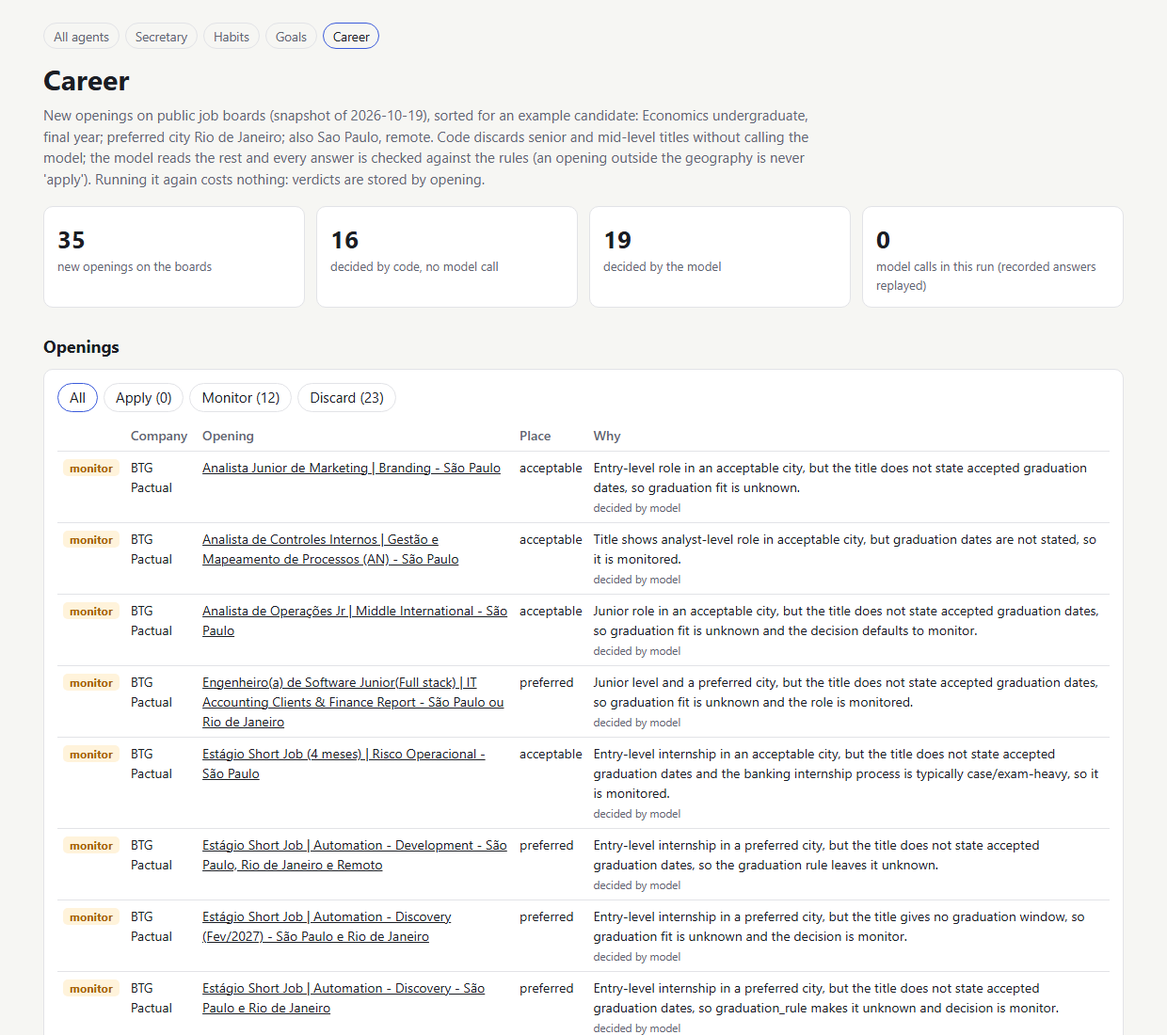
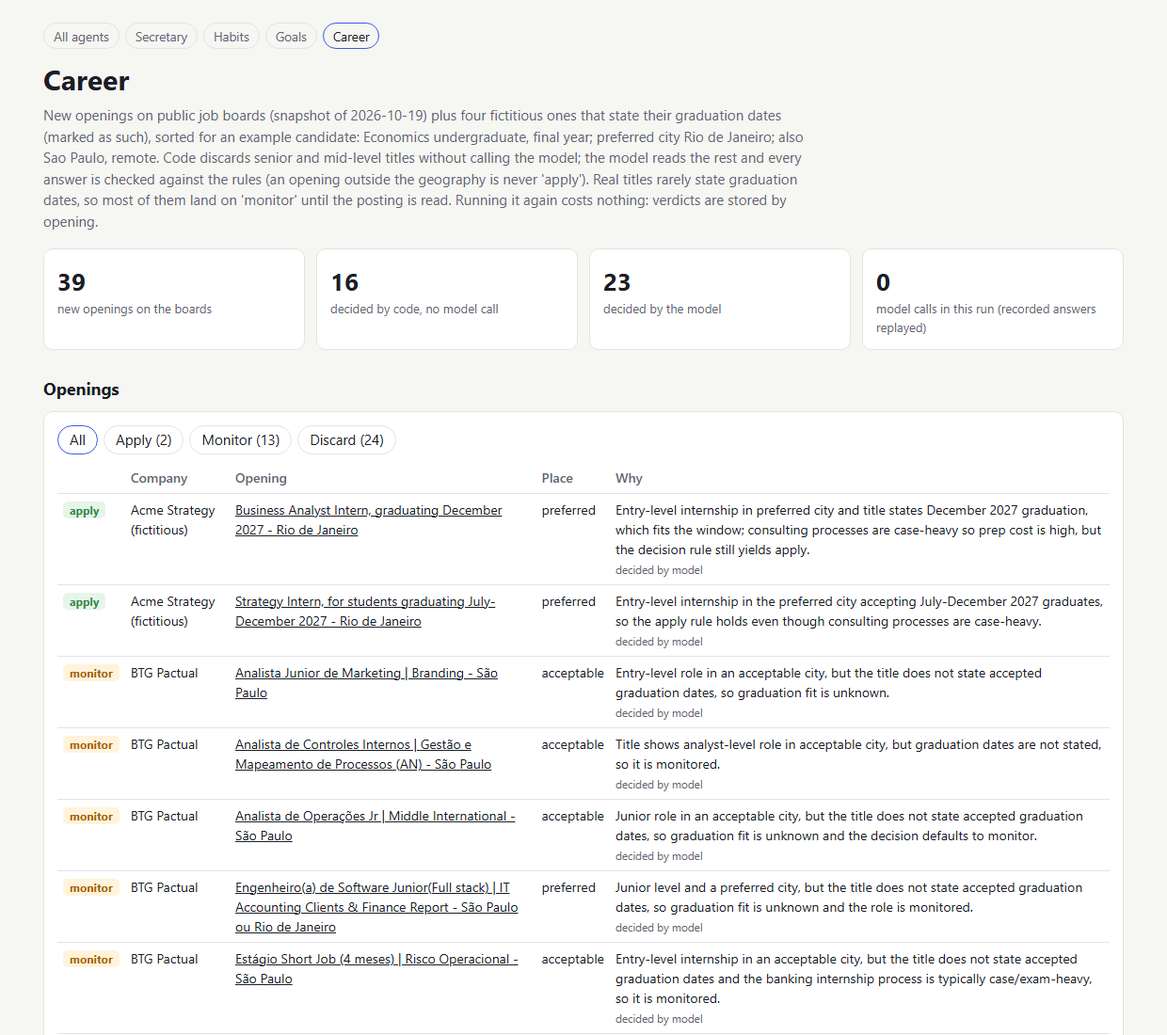
Librarian card on the index; example openings show every outcome

Changed region(s): [[0.0306, 0.3709, 0.95, 1.0], [0.0306, 0.0927, 0.7048, 0.34], [0.7355, 0.2164, 0.95, 0.34]]

diff --git a/output/career.html b/output/career.html
@@ -27,12 +27,12 @@ table.trace td:nth-child(n+3):nth-child(-n+9){text-align:right;font-variant-nume
 padding:3px 12px;margin:0 6px 8px 0;cursor:pointer}.filters button.on{border-color:var(--accent)}
 tr.hide{display:none}td a{color:inherit}
 </style></head><body><main><nav><a href="index.html">All agents</a><a href="secretary.html">Secretary</a><a href="habits.html">Habits</a><a href="goals.html">Goals</a><a href="career.html" class="on">Career</a></nav>
-<h1>Career</h1><p class="lead">New openings on public job boards (snapshot of 2026-10-19), sorted for an example candidate: Economics undergraduate, final year; preferred city Rio de Janeiro; also Sao Paulo, remote. Code discards senior and mid-level titles without calling the model; the model reads the rest and every answer is checked against the rules (an opening outside the geography is never 'apply'). Running it again costs nothing: verdicts are stored by opening.</p><div class="grid g4"><div class="panel tile"><div class="v">35</div><div class="l">new openings on the boards</div></div><div class="panel tile"><div class="v">16</div><div class="l">decided by code, no model call</div></div><div class="panel tile"><div class="v">19</div><div class="l">decided by the model</div></div><div class="panel tile"><div class="v">0</div><div class="l">model calls in this run (recorded answers replayed)</div></div></div><h2>Openings</h2><div class="panel" style="overflow-x:auto"><div class="filters"><button data-f="all" class="on">All</button><button data-f="apply">Apply (0)</button><button data-f="monitor">Monitor (12)</button><button data-f="discard">Discard (23)</button></div><table><tr><th></th><th>Company</th><th>Opening</th><th>Place</th><th>Why</th></tr><tr data-d="monitor"><td><span class="badge warn">monitor</span></td><td>BTG Pactual</td><td><a href="https://boards.greenhouse.io/btgpactual">Analista Junior de Marketing | Branding - São Paulo</a></td><td>acceptable</td><td>Entry-level role in an acceptable city, but the title does not state accepted graduation dates, so graduation fit is unknown.<br><small>decided by model</small></td></tr><tr data-d="monitor"><td><span class="badge warn">monitor</span></td><td>BTG Pactual</td><td><a href="https://boards.greenhouse.io/btgpactual">Analista de Controles Internos | Gestão e Mapeamento de Processos (AN) - São Paulo</a></td><td>acceptable</td><td>Title shows analyst-level role in acceptable city, but graduation dates are not stated, so it is monitored.<br><small>decided by model</small></td></tr><tr data-d="monitor"><td><span class="badge warn">monitor</span></td><td>BTG Pactual</td><td><a href="https://boards.greenhouse.io/btgpactual">Analista de Operações Jr | Middle International - São Paulo</a></td><td>acceptable</td><td>Junior role in an acceptable city, but the title does not state accepted graduation dates, so graduation fit is unknown and the decision defaults to monitor.<br><small>decided by model</small></td></tr><tr data-d="monitor"><td><span class="badge warn">monitor</span></td><td>BTG Pactual</td><td><a href="https://boards.greenhouse.io/btgpactual">Engenheiro(a) de Software Junior(Full stack) | IT Accounting Clients &amp; Finance Report - São Paulo ou Rio de Janeiro</a></td><td>preferred</td><td>Junior level and a preferred city, but the title does not state accepted graduation dates, so graduation fit is unknown and the role is monitored.<br><small>decided by model</small></td></tr><tr data-d="monitor"><td><span class="badge warn">monitor</span></td><td>BTG Pactual</td><td><a href="https://boards.greenhouse.io/btgpactual">Estágio Short Job (4 meses) | Risco Operacional - São Paulo</a></td><td>acceptable</td><td>Entry-level internship in an acceptable city, but the title does not state accepted graduation dates and the banking internship process is typically case/exam-heavy, so it is monitored.<br><small>decided by model</small></td></tr><tr data-d="monitor"><td><span class="badge warn">monitor</span></td><td>BTG Pactual</td><td><a href="https://boards.greenhouse.io/btgpactual">Estágio Short Job | Automation - Development - São Paulo, Rio de Janeiro e Remoto</a></td><td>preferred</td><td>Entry-level internship in a preferred city, but the title does not state accepted graduation dates, so the graduation rule leaves it unknown.<br><small>decided by model</small></td></tr><tr data-d="monitor"><td><span class="badge warn">monitor</span></td><td>BTG Pactual</td><td><a href="https://boards.greenhouse.io/btgpactual">Estágio Short Job | Automation - Discovery (Fev/2027) - São Paulo e Rio de Janeiro</a></td><td>preferred</td><td>Entry-level internship in a preferred city, but the title gives no graduation window, so graduation fit is unknown and the decision is monitor.<br><small>decided by model</small></td></tr><tr data-d="monitor"><td><span class="badge warn">monitor</span></td><td>BTG Pactual</td><td><a href="https://boards.greenhouse.io/btgpactual">Estágio Short Job | Automation - Discovery - São Paulo e Rio de Janeiro</a></td><td>preferred</td><td>Entry-level internship in a preferred city, but the title does not state accepted graduation dates, so graduation_rule makes it unknown and decision is monitor.<br><small>decided by model</small></td></tr><tr data-d="monitor"><td><span class="badge warn">monitor</span></td><td>BTG Pactual</td><td><a href="https://boards.greenhouse.io/btgpactual">Estágio em Capacitação e Treinamento - São Paulo</a></td><td>acceptable</td><td>Internship level and acceptable city, but the title does not state accepted graduation dates and banking internship processes are typically case or exam-heavy, so monitor.<br><small>decided by model</small></td></tr><tr data-d="monitor"><td><span class="badge warn">monitor</span></td><td>BTG Pactual</td><td><a href="https://boards.greenhouse.io/btgpactual">Estágio em Equity Research - São Paulo</a></td><td>acceptable</td><td>Internship level and São Paulo are acceptable, but the title does not state graduation dates and finance internship processes are typically case/exam-heavy, so it is monitored.<br><small>decided by model</small></td></tr><tr data-d="monitor"><td><span class="badge warn">monitor</span></td><td>BTG Pactual</td><td><a href="https://boards.greenhouse.io/btgpactual">Internalizações | IT Products - São Paulo, São Paulo, Brazil</a></td><td>acceptable</td><td>Title does not state accepted graduation dates, so graduation is unknown; the role is not clearly entry level, so it is monitored rather than applied to.<br><small>decided by model</small></td></tr><tr data-d="monitor"><td><span class="badge warn">monitor</span></td><td>Stone</td><td><a href="https://boards.greenhouse.io/stone">Analista Júnior  de Políticas de Crédito / Crédit Business Analyst - Sao Paulo, Sao Paulo, Brasil</a></td><td>acceptable</td><td>Junior level and acceptable city, but the title does not state accepted graduation windows, so graduation fit is unknown.<br><small>decided by model</small></td></tr><tr data-d="discard"><td><span class="badge bad">discard</span></td><td>BTG Pactual</td><td><a href="https://boards.greenhouse.io/btgpactual">Analista de Auditoria Interna - São Paulo</a></td><td>acceptable</td><td>Title is &#x27;Analista&#x27; without internship or junior/entry-level marker, so level rule fails and the role is discarded.<br><small>decided by model</small></td></tr><tr data-d="discard"><td><span class="badge bad">discard</span></td><td>BTG Pactual</td><td><a href="https://boards.greenhouse.io/btgpactual">Analista de Controles Internos | Tecnologia (AN) - São Paulo</a></td><td>acceptable</td><td>The title &#x27;Analista&#x27; is not explicitly internship, trainee or junior level, so the level rule is not clearly met and the opening is discarded as a non-entry role.<br><small>decided by model</small></td></tr><tr data-d="discard"><td><span class="badge bad">discard</span></td><td>BTG Pactual</td><td><a href="https://boards.greenhouse.io/btgpactual">Analista de Risco Operacional e Controles Internos | Offshore Europa - São Paulo</a></td><td>acceptable</td><td>Title is &#x27;Analista&#x27; without an entry-level or internship marker and does not state an accepted graduation window, so level is not entry and graduation is unknown; per decision rule, a mid-level or unclear role is discarded.<br><small>decided by model</small></td></tr><tr data-d="discard"><td><span class="badge bad">discard</span></td><td>BTG Pactual</td><td><a href="https://boards.greenhouse.io/btgpactual">Associate Director - Treinamento em Hard Skills | Mercado Financeiro - São Paulo</a></td><td>unknown</td><td>level rule: &#x27;Director&#x27; in the title (decided by code, no call)<br><small>decided by code</small></td></tr><tr data-d="discard"><td><span class="badge bad">discard</span></td><td>BTG Pactual</td><td><a href="https://boards.greenhouse.io/btgpactual">Desenvolvedor(a) Backend Junior/Pleno | Renda Fixa - São Paulo, Brazil</a></td><td>unknown</td><td>level rule: &#x27;Pleno&#x27; in the title (decided by code, no call)<br><small>decided by code</small></td></tr><tr data-d="discard"><td><span class="badge bad">discard</span></td><td>BTG Pactual</td><td><a href="https://boards.greenhouse.io/btgpactual">Engenheiro de Software Junior ou Pleno (Java) | Investment Products - São Paulo, São Paulo, Brazil</a></td><td>unknown</td><td>level rule: &#x27;Pleno&#x27; in the title (decided by code, no call)<br><small>decided by code</small></td></tr><tr data-d="discard"><td><span class="badge bad">discard</span></td><td>BTG Pactual</td><td><a href="https://boards.greenhouse.io/btgpactual">Engenheiro(a) de Software Backend (Python) Sênior – Plataforma Risco Operacional e Controles Internos - São Paulo</a></td><td>unknown</td><td>level rule: &#x27;Sênior&#x27; in the title (decided by code, no call)<br><small>decided by code</small></td></tr><tr data-d="discard"><td><span class="badge bad">discard</span></td><td>BTG Pactual</td><td><a href="https://boards.greenhouse.io/btgpactual">Programa BTG Talentos | Estágio de Férias UNICAMP 2027.1 - São Paulo</a></td><td>acceptable</td><td>Title specifies a 2027.1 vacation internship for UNICAMP students, which does not accept the 2027-07 or 2027-12 graduation windows, so graduation does not fit.<br><small>decided by model</small></td></tr><tr data-d="discard"><td><span class="badge bad">discard</span></td><td>EBANX</td><td><a href="https://boards.greenhouse.io/ebanx">Chargeback and Fraud Prevention Product Analyst - Curitiba or São Paulo | Hybrid</a></td><td>outside</td><td>Curitiba is outside the preferred and acceptable cities, and the title does not state an entry-level role, so the rule discards it.<br><small>decided by model</small></td></tr><tr data-d="discard"><td><span class="badge bad">discard</span></td><td>EBANX</td><td><a href="https://boards.greenhouse.io/ebanx">Payments &amp; Partnership Operations Senior Analyst - Curitiba or São Paulo | On-site</a></td><td>unknown</td><td>level rule: &#x27;Senior&#x27; in the title (decided by code, no call)<br><small>decided by code</small></td></tr><tr data-d="discard"><td><span class="badge bad">discard</span></td><td>EBANX</td><td><a href="https://boards.greenhouse.io/ebanx">Project Management Senior Analyst - Curitiba | On-site</a></td><td>unknown</td><td>level rule: &#x27;Senior&#x27; in the title (decided by code, no call)<br><small>decided by code</small></td></tr><tr data-d="discard"><td><span class="badge bad">discard</span></td><td>EBANX</td><td><a href="https://boards.greenhouse.io/ebanx">Senior Analytics &amp; Intelligence Analyst - Curitiba</a></td><td>unknown</td><td>level rule: &#x27;Senior&#x27; in the title (decided by code, no call)<br><small>decided by code</small></td></tr><tr data-d="discard"><td><span class="badge bad">discard</span></td><td>EBANX</td><td><a href="https://boards.greenhouse.io/ebanx">Senior Chargeback &amp; Fraud Analyst - Curitiba or São Paulo</a></td><td>unknown</td><td>level rule: &#x27;Senior&#x27; in the title (decided by code, no call)<br><small>decided by code</small></td></tr><tr data-d="discard"><td><span class="badge bad">discard</span></td><td>EBANX</td><td><a href="https://boards.greenhouse.io/ebanx">Senior Commercial Legal Analyst - São Paulo</a></td><td>unknown</td><td>level rule: &#x27;Senior&#x27; in the title (decided by code, no call)<br><small>decided by code</small></td></tr><tr data-d="discard"><td><span class="badge bad">discard</span></td><td>EBANX</td><td><a href="https://boards.greenhouse.io/ebanx">Senior Employer Branding &amp; Internal Communications Analyst - Curitiba</a></td><td>unknown</td><td>level rule: &#x27;Senior&#x27; in the title (decided by code, no call)<br><small>decided by code</small></td></tr><tr data-d="discard"><td><span class="badge bad">discard</span></td><td>EBANX</td><td><a href="https://boards.greenhouse.io/ebanx">Senior Product Analyst | Financial Products - Curitiba or São Paulo | Hybrid</a></td><td>unknown</td><td>level rule: &#x27;Senior&#x27; in the title (decided by code, no call)<br><small>decided by code</small></td></tr><tr data-d="discard"><td><span class="badge bad">discard</span></td><td>EBANX</td><td><a href="https://boards.greenhouse.io/ebanx">Treasury Analyst | India - Mumbai</a></td><td>outside</td><td>Location Mumbai is outside the preferred and acceptable geographies, so the decision rule discards it.<br><small>decided by model</small></td></tr><tr data-d="discard"><td><span class="badge bad">discard</span></td><td>Stone</td><td><a href="https://boards.greenhouse.io/stone">Analista Pleno  de Políticas de Crédito / Crédit Business Analyst - Sao Paulo, Sao Paulo, Brasil</a></td><td>unknown</td><td>level rule: &#x27;Pleno&#x27; in the title (decided by code, no call)<br><small>decided by code</small></td></tr><tr data-d="discard"><td><span class="badge bad">discard</span></td><td>Stone</td><td><a href="https://boards.greenhouse.io/stone">Analista de Auditoria Interna Sênior | Produtos Bancários e Contabilidade (Híbrido/SP) - Sao Paulo, Sao Paulo, Brasil</a></td><td>unknown</td><td>level rule: &#x27;Sênior&#x27; in the title (decided by code, no call)<br><small>decided by code</small></td></tr><tr data-d="discard"><td><span class="badge bad">discard</span></td><td>Stone</td><td><a href="https://boards.greenhouse.io/stone">Business Analyst PLENO - Remoto</a></td><td>unknown</td><td>level rule: &#x27;PLENO&#x27; in the title (decided by code, no call)<br><small>decided by code</small></td></tr><tr data-d="discard"><td><span class="badge bad">discard</span></td><td>Stone</td><td><a href="https://boards.greenhouse.io/stone">Especialista de TI | Controles Internos e Riscos Tecnológicos | (Híbrido/SP) - Sao Paulo, Sao Paulo, Brasil</a></td><td>unknown</td><td>level rule: &#x27;Especialista&#x27; in the title (decided by code, no call)<br><small>decided by code</small></td></tr><tr data-d="discard"><td><span class="badge bad">discard</span></td><td>Stone</td><td><a href="https://boards.greenhouse.io/stone">Senior Business Analyst - Remoto</a></td><td>unknown</td><td>level rule: &#x27;Senior&#x27; in the title (decided by code, no call)<br><small>decided by code</small></td></tr><tr data-d="discard"><td><span class="badge bad">discard</span></td><td>Stone</td><td><a href="https://boards.greenhouse.io/stone">[Exclusiva PcD] Consultor(a) Comercial Interno | Híbrido - Rio de Janeiro/RJ - Híbrido, Rio de Janeiro</a></td><td>preferred</td><td>Level rule: &#x27;Consultor(a) Comercial Interno&#x27; is not an internship, trainee or junior/entry-level role, so it is discarded regardless of the preferred location.<br><small>decided by model</small></td></tr></table></div><script>
+<h1>Career</h1><p class="lead">New openings on public job boards (snapshot of 2026-10-19) plus four fictitious ones that state their graduation dates (marked as such), sorted for an example candidate: Economics undergraduate, final year; preferred city Rio de Janeiro; also Sao Paulo, remote. Code discards senior and mid-level titles without calling the model; the model reads the rest and every answer is checked against the rules (an opening outside the geography is never 'apply'). Real titles rarely state graduation dates, so most of them land on 'monitor' until the posting is read. Running it again costs nothing: verdicts are stored by opening.</p><div class="grid g4"><div class="panel tile"><div class="v">39</div><div class="l">new openings on the boards</div></div><div class="panel tile"><div class="v">16</div><div class="l">decided by code, no model call</div></div><div class="panel tile"><div class="v">23</div><div class="l">decided by the model</div></div><div class="panel tile"><div class="v">0</div><div class="l">model calls in this run (recorded answers replayed)</div></div></div><h2>Openings</h2><div class="panel" style="overflow-x:auto"><div class="filters"><button data-f="all" class="on">All</button><button data-f="apply">Apply (2)</button><button data-f="monitor">Monitor (13)</button><button data-f="discard">Discard (24)</button></div><table><tr><th></th><th>Company</th><th>Opening</th><th>Place</th><th>Why</th></tr><tr data-d="apply"><td><span class="badge ok">apply</span></td><td>Acme Strategy (fictitious)</td><td><a href="https://careers.acme-strategy.example/jobs">Business Analyst Intern, graduating December 2027 - Rio de Janeiro</a></td><td>preferred</td><td>Entry-level internship in preferred city and title states December 2027 graduation, which fits the window; consulting processes are case-heavy so prep cost is high, but the decision rule still yields apply.<br><small>decided by model</small></td></tr><tr data-d="apply"><td><span class="badge ok">apply</span></td><td>Acme Strategy (fictitious)</td><td><a href="https://careers.acme-strategy.example/jobs">Strategy Intern, for students graduating July-December 2027 - Rio de Janeiro</a></td><td>preferred</td><td>Entry-level internship in the preferred city accepting July-December 2027 graduates, so the apply rule holds even though consulting processes are case-heavy.<br><small>decided by model</small></td></tr><tr data-d="monitor"><td><span class="badge warn">monitor</span></td><td>BTG Pactual</td><td><a href="https://boards.greenhouse.io/btgpactual">Analista Junior de Marketing | Branding - São Paulo</a></td><td>acceptable</td><td>Entry-level role in an acceptable city, but the title does not state accepted graduation dates, so graduation fit is unknown.<br><small>decided by model</small></td></tr><tr data-d="monitor"><td><span class="badge warn">monitor</span></td><td>BTG Pactual</td><td><a href="https://boards.greenhouse.io/btgpactual">Analista de Controles Internos | Gestão e Mapeamento de Processos (AN) - São Paulo</a></td><td>acceptable</td><td>Title shows analyst-level role in acceptable city, but graduation dates are not stated, so it is monitored.<br><small>decided by model</small></td></tr><tr data-d="monitor"><td><span class="badge warn">monitor</span></td><td>BTG Pactual</td><td><a href="https://boards.greenhouse.io/btgpactual">Analista de Operações Jr | Middle International - São Paulo</a></td><td>acceptable</td><td>Junior role in an acceptable city, but the title does not state accepted graduation dates, so graduation fit is unknown and the decision defaults to monitor.<br><small>decided by model</small></td></tr><tr data-d="monitor"><td><span class="badge warn">monitor</span></td><td>BTG Pactual</td><td><a href="https://boards.greenhouse.io/btgpactual">Engenheiro(a) de Software Junior(Full stack) | IT Accounting Clients &amp; Finance Report - São Paulo ou Rio de Janeiro</a></td><td>preferred</td><td>Junior level and a preferred city, but the title does not state accepted graduation dates, so graduation fit is unknown and the role is monitored.<br><small>decided by model</small></td></tr><tr data-d="monitor"><td><span class="badge warn">monitor</span></td><td>BTG Pactual</td><td><a href="https://boards.greenhouse.io/btgpactual">Estágio Short Job (4 meses) | Risco Operacional - São Paulo</a></td><td>acceptable</td><td>Entry-level internship in an acceptable city, but the title does not state accepted graduation dates and the banking internship process is typically case/exam-heavy, so it is monitored.<br><small>decided by model</small></td></tr><tr data-d="monitor"><td><span class="badge warn">monitor</span></td><td>BTG Pactual</td><td><a href="https://boards.greenhouse.io/btgpactual">Estágio Short Job | Automation - Development - São Paulo, Rio de Janeiro e Remoto</a></td><td>preferred</td><td>Entry-level internship in a preferred city, but the title does not state accepted graduation dates, so the graduation rule leaves it unknown.<br><small>decided by model</small></td></tr><tr data-d="monitor"><td><span class="badge warn">monitor</span></td><td>BTG Pactual</td><td><a href="https://boards.greenhouse.io/btgpactual">Estágio Short Job | Automation - Discovery (Fev/2027) - São Paulo e Rio de Janeiro</a></td><td>preferred</td><td>Entry-level internship in a preferred city, but the title gives no graduation window, so graduation fit is unknown and the decision is monitor.<br><small>decided by model</small></td></tr><tr data-d="monitor"><td><span class="badge warn">monitor</span></td><td>BTG Pactual</td><td><a href="https://boards.greenhouse.io/btgpactual">Estágio Short Job | Automation - Discovery - São Paulo e Rio de Janeiro</a></td><td>preferred</td><td>Entry-level internship in a preferred city, but the title does not state accepted graduation dates, so graduation_rule makes it unknown and decision is monitor.<br><small>decided by model</small></td></tr><tr data-d="monitor"><td><span class="badge warn">monitor</span></td><td>BTG Pactual</td><td><a href="https://boards.greenhouse.io/btgpactual">Estágio em Capacitação e Treinamento - São Paulo</a></td><td>acceptable</td><td>Internship level and acceptable city, but the title does not state accepted graduation dates and banking internship processes are typically case or exam-heavy, so monitor.<br><small>decided by model</small></td></tr><tr data-d="monitor"><td><span class="badge warn">monitor</span></td><td>BTG Pactual</td><td><a href="https://boards.greenhouse.io/btgpactual">Estágio em Equity Research - São Paulo</a></td><td>acceptable</td><td>Internship level and São Paulo are acceptable, but the title does not state graduation dates and finance internship processes are typically case/exam-heavy, so it is monitored.<br><small>decided by model</small></td></tr><tr data-d="monitor"><td><span class="badge warn">monitor</span></td><td>BTG Pactual</td><td><a href="https://boards.greenhouse.io/btgpactual">Internalizações | IT Products - São Paulo, São Paulo, Brazil</a></td><td>acceptable</td><td>Title does not state accepted graduation dates, so graduation is unknown; the role is not clearly entry level, so it is monitored rather than applied to.<br><small>decided by model</small></td></tr><tr data-d="monitor"><td><span class="badge warn">monitor</span></td><td>Northwind Bank (fictitious)</td><td><a href="https://jobs.northwind.example/early-careers">Data Analytics Intern, graduating in 2027 - Remote</a></td><td>acceptable</td><td>Entry-level internship and remote is acceptable, but the title only says graduating in 2027 without naming a window, so graduation fit is unknown and the decision defaults to monitor.<br><small>decided by model</small></td></tr><tr data-d="monitor"><td><span class="badge warn">monitor</span></td><td>Stone</td><td><a href="https://boards.greenhouse.io/stone">Analista Júnior  de Políticas de Crédito / Crédit Business Analyst - Sao Paulo, Sao Paulo, Brasil</a></td><td>acceptable</td><td>Junior level and acceptable city, but the title does not state accepted graduation windows, so graduation fit is unknown.<br><small>decided by model</small></td></tr><tr data-d="discard"><td><span class="badge bad">discard</span></td><td>BTG Pactual</td><td><a href="https://boards.greenhouse.io/btgpactual">Analista de Auditoria Interna - São Paulo</a></td><td>acceptable</td><td>Title is &#x27;Analista&#x27; without internship or junior/entry-level marker, so level rule fails and the role is discarded.<br><small>decided by model</small></td></tr><tr data-d="discard"><td><span class="badge bad">discard</span></td><td>BTG Pactual</td><td><a href="https://boards.greenhouse.io/btgpactual">Analista de Controles Internos | Tecnologia (AN) - São Paulo</a></td><td>acceptable</td><td>The title &#x27;Analista&#x27; is not explicitly internship, trainee or junior level, so the level rule is not clearly met and the opening is discarded as a non-entry role.<br><small>decided by model</small></td></tr><tr data-d="discard"><td><span class="badge bad">discard</span></td><td>BTG Pactual</td><td><a href="https://boards.greenhouse.io/btgpactual">Analista de Risco Operacional e Controles Internos | Offshore Europa - São Paulo</a></td><td>acceptable</td><td>Title is &#x27;Analista&#x27; without an entry-level or internship marker and does not state an accepted graduation window, so level is not entry and graduation is unknown; per decision rule, a mid-level or unclear role is discarded.<br><small>decided by model</small></td></tr><tr data-d="discard"><td><span class="badge bad">discard</span></td><td>BTG Pactual</td><td><a href="https://boards.greenhouse.io/btgpactual">Associate Director - Treinamento em Hard Skills | Mercado Financeiro - São Paulo</a></td><td>unknown</td><td>level rule: &#x27;Director&#x27; in the title (decided by code, no call)<br><small>decided by code</small></td></tr><tr data-d="discard"><td><span class="badge bad">discard</span></td><td>BTG Pactual</td><td><a href="https://boards.greenhouse.io/btgpactual">Desenvolvedor(a) Backend Junior/Pleno | Renda Fixa - São Paulo, Brazil</a></td><td>unknown</td><td>level rule: &#x27;Pleno&#x27; in the title (decided by code, no call)<br><small>decided by code</small></td></tr><tr data-d="discard"><td><span class="badge bad">discard</span></td><td>BTG Pactual</td><td><a href="https://boards.greenhouse.io/btgpactual">Engenheiro de Software Junior ou Pleno (Java) | Investment Products - São Paulo, São Paulo, Brazil</a></td><td>unknown</td><td>level rule: &#x27;Pleno&#x27; in the title (decided by code, no call)<br><small>decided by code</small></td></tr><tr data-d="discard"><td><span class="badge bad">discard</span></td><td>BTG Pactual</td><td><a href="https://boards.greenhouse.io/btgpactual">Engenheiro(a) de Software Backend (Python) Sênior – Plataforma Risco Operacional e Controles Internos - São Paulo</a></td><td>unknown</td><td>level rule: &#x27;Sênior&#x27; in the title (decided by code, no call)<br><small>decided by code</small></td></tr><tr data-d="discard"><td><span class="badge bad">discard</span></td><td>BTG Pactual</td><td><a href="https://boards.greenhouse.io/btgpactual">Programa BTG Talentos | Estágio de Férias UNICAMP 2027.1 - São Paulo</a></td><td>acceptable</td><td>Title specifies a 2027.1 vacation internship for UNICAMP students, which does not accept the 2027-07 or 2027-12 graduation windows, so graduation does not fit.<br><small>decided by model</small></td></tr><tr data-d="discard"><td><span class="badge bad">discard</span></td><td>EBANX</td><td><a href="https://boards.greenhouse.io/ebanx">Chargeback and Fraud Prevention Product Analyst - Curitiba or São Paulo | Hybrid</a></td><td>outside</td><td>Curitiba is outside the preferred and acceptable cities, and the title does not state an entry-level role, so the rule discards it.<br><small>decided by model</small></td></tr><tr data-d="discard"><td><span class="badge bad">discard</span></td><td>EBANX</td><td><a href="https://boards.greenhouse.io/ebanx">Payments &amp; Partnership Operations Senior Analyst - Curitiba or São Paulo | On-site</a></td><td>unknown</td><td>level rule: &#x27;Senior&#x27; in the title (decided by code, no call)<br><small>decided by code</small></td></tr><tr data-d="discard"><td><span class="badge bad">discard</span></td><td>EBANX</td><td><a href="https://boards.greenhouse.io/ebanx">Project Management Senior Analyst - Curitiba | On-site</a></td><td>unknown</td><td>level rule: &#x27;Senior&#x27; in the title (decided by code, no call)<br><small>decided by code</small></td></tr><tr data-d="discard"><td><span class="badge bad">discard</span></td><td>EBANX</td><td><a href="https://boards.greenhouse.io/ebanx">Senior Analytics &amp; Intelligence Analyst - Curitiba</a></td><td>unknown</td><td>level rule: &#x27;Senior&#x27; in the title (decided by code, no call)<br><small>decided by code</small></td></tr><tr data-d="discard"><td><span class="badge bad">discard</span></td><td>EBANX</td><td><a href="https://boards.greenhouse.io/ebanx">Senior Chargeback &amp; Fraud Analyst - Curitiba or São Paulo</a></td><td>unknown</td><td>level rule: &#x27;Senior&#x27; in the title (decided by code, no call)<br><small>decided by code</small></td></tr><tr data-d="discard"><td><span class="badge bad">discard</span></td><td>EBANX</td><td><a href="https://boards.greenhouse.io/ebanx">Senior Commercial Legal Analyst - São Paulo</a></td><td>unknown</td><td>level rule: &#x27;Senior&#x27; in the title (decided by code, no call)<br><small>decided by code</small></td></tr><tr data-d="discard"><td><span class="badge bad">discard</span></td><td>EBANX</td><td><a href="https://boards.greenhouse.io/ebanx">Senior Employer Branding &amp; Internal Communications Analyst - Curitiba</a></td><td>unknown</td><td>level rule: &#x27;Senior&#x27; in the title (decided by code, no call)<br><small>decided by code</small></td></tr><tr data-d="discard"><td><span class="badge bad">discard</span></td><td>EBANX</td><td><a href="https://boards.greenhouse.io/ebanx">Senior Product Analyst | Financial Products - Curitiba or São Paulo | Hybrid</a></td><td>unknown</td><td>level rule: &#x27;Senior&#x27; in the title (decided by code, no call)<br><small>decided by code</small></td></tr><tr data-d="discard"><td><span class="badge bad">discard</span></td><td>EBANX</td><td><a href="https://boards.greenhouse.io/ebanx">Treasury Analyst | India - Mumbai</a></td><td>outside</td><td>Location Mumbai is outside the preferred and acceptable geographies, so the decision rule discards it.<br><small>decided by model</small></td></tr><tr data-d="discard"><td><span class="badge bad">discard</span></td><td>Northwind Bank (fictitious)</td><td><a href="https://jobs.northwind.example/early-careers">Trainee Program 2027, for graduates of 2025 or 2026 - Sao Paulo</a></td><td>acceptable</td><td>Graduation rule: the title says graduates of 2025 or 2026, which does not accept the 2027-07 or 2027-12 windows, so it is discarded.<br><small>decided by model</small></td></tr><tr data-d="discard"><td><span class="badge bad">discard</span></td><td>Stone</td><td><a href="https://boards.greenhouse.io/stone">Analista Pleno  de Políticas de Crédito / Crédit Business Analyst - Sao Paulo, Sao Paulo, Brasil</a></td><td>unknown</td><td>level rule: &#x27;Pleno&#x27; in the title (decided by code, no call)<br><small>decided by code</small></td></tr><tr data-d="discard"><td><span class="badge bad">discard</span></td><td>Stone</td><td><a href="https://boards.greenhouse.io/stone">Analista de Auditoria Interna Sênior | Produtos Bancários e Contabilidade (Híbrido/SP) - Sao Paulo, Sao Paulo, Brasil</a></td><td>unknown</td><td>level rule: &#x27;Sênior&#x27; in the title (decided by code, no call)<br><small>decided by code</small></td></tr><tr data-d="discard"><td><span class="badge bad">discard</span></td><td>Stone</td><td><a href="https://boards.greenhouse.io/stone">Business Analyst PLENO - Remoto</a></td><td>unknown</td><td>level rule: &#x27;PLENO&#x27; in the title (decided by code, no call)<br><small>decided by code</small></td></tr><tr data-d="discard"><td><span class="badge bad">discard</span></td><td>Stone</td><td><a href="https://boards.greenhouse.io/stone">Especialista de TI | Controles Internos e Riscos Tecnológicos | (Híbrido/SP) - Sao Paulo, Sao Paulo, Brasil</a></td><td>unknown</td><td>level rule: &#x27;Especialista&#x27; in the title (decided by code, no call)<br><small>decided by code</small></td></tr><tr data-d="discard"><td><span class="badge bad">discard</span></td><td>Stone</td><td><a href="https://boards.greenhouse.io/stone">Senior Business Analyst - Remoto</a></td><td>unknown</td><td>level rule: &#x27;Senior&#x27; in the title (decided by code, no call)<br><small>decided by code</small></td></tr><tr data-d="discard"><td><span class="badge bad">discard</span></td><td>Stone</td><td><a href="https://boards.greenhouse.io/stone">[Exclusiva PcD] Consultor(a) Comercial Interno | Híbrido - Rio de Janeiro/RJ - Híbrido, Rio de Janeiro</a></td><td>preferred</td><td>Level rule: &#x27;Consultor(a) Comercial Interno&#x27; is not an internship, trainee or junior/entry-level role, so it is discarded regardless of the preferred location.<br><small>decided by model</small></td></tr></table></div><script>
 document.querySelectorAll('.filters button').forEach(b => b.addEventListener('click', () => {
   document.querySelectorAll('.filters button').forEach(x => x.classList.toggle('on', x === b));
   const f = b.dataset.f;
   document.querySelectorAll('tr[data-d]').forEach(r => r.classList.toggle('hide', f !== 'all' && r.dataset.d !== f));
 }));
 </script>
-<footer>Public job-board titles; example candidate profile. Generated by <code>python demo.py</code> in personal-ai-agents.</footer>
+<footer>Public job-board titles plus four fictitious openings; example candidate profile. Generated by <code>python demo.py</code> in personal-ai-agents.</footer>
 </main></body></html>

diff --git a/output/index.html b/output/index.html
@@ -23,6 +23,6 @@ pre{white-space:pre-wrap;font-size:12.5px;background:var(--chip);padding:10px;bo
 small,.muted{color:var(--muted)}.tbar{height:10px;border-radius:3px;min-width:4px}
 table.trace td:nth-child(n+3):nth-child(-n+9){text-align:right;font-variant-numeric:tabular-nums}footer{color:var(--muted);font-size:13px;margin-top:32px}
 </style></head><body><main><nav><a href="index.html" class="on">All agents</a><a href="secretary.html">Secretary</a><a href="habits.html">Habits</a><a href="goals.html">Goals</a><a href="career.html">Career</a></nav>
-<h1>Personal AI agents</h1><p class="lead">Each agent here is a small, runnable version of one I use every day with my real data (Todoist, Anki, Loop Habits, Claude Code). The data on these pages is fictitious; the logic and the outputs are the real ones.</p><div class="grid g2"><a class="panel" href="secretary.html" style="color:inherit;text-decoration:none"><h2 style="margin:0 0 6px">Secretary</h2><p class='muted' style='margin:0'>Plans the day in the task manager; a gate blocks any write the validator did not pass.</p><p style='margin:8px 0 0'>a bad batch blocked by the gate; the plan closed in round 2, then waits for approval</p></a><a class="panel" href="habits.html" style="color:inherit;text-decoration:none"><h2 style="margin:0 0 6px">Habits</h2><p class='muted' style='margin:0'>Turns the habit-tracker export into a spreadsheet and a dashboard of habits.</p><p style='margin:8px 0 0'>6 habits from the app export; 4 on target over the last 30 days</p></a><a class="panel" href="goals.html" style="color:inherit;text-decoration:none"><h2 style="margin:0 0 6px">Goals</h2><p class='muted' style='margin:0'>Shows the quarter&#x27;s goals and key results against what the data says.</p><p style='margin:8px 0 0'>4 goals, 5 key result(s) behind or off track</p></a><a class="panel" href="career.html" style="color:inherit;text-decoration:none"><h2 style="margin:0 0 6px">Career</h2><p class='muted' style='margin:0'>Reads public job boards and sorts new openings into apply, monitor or discard.</p><p style='margin:8px 0 0'>35 openings: 0 apply, 12 monitor, 23 discard</p></a></div>
+<h1>Personal AI agents</h1><p class="lead">Each agent here is a small, runnable version of one I use every day with my real data (Todoist, Anki, Loop Habits, Claude Code). The data on these pages is fictitious; the logic and the outputs are the real ones.</p><div class="grid g2"><a class="panel" href="secretary.html" style="color:inherit;text-decoration:none"><h2 style="margin:0 0 6px">Secretary</h2><p class='muted' style='margin:0'>Plans the day in the task manager; a gate blocks any write the validator did not pass.</p><p style='margin:8px 0 0'>a bad batch blocked by the gate; the plan closed in round 2, then waits for approval</p></a><a class="panel" href="habits.html" style="color:inherit;text-decoration:none"><h2 style="margin:0 0 6px">Habits</h2><p class='muted' style='margin:0'>Turns the habit-tracker export into a spreadsheet and a dashboard of habits.</p><p style='margin:8px 0 0'>6 habits from the app export; 4 on target over the last 30 days</p></a><a class="panel" href="goals.html" style="color:inherit;text-decoration:none"><h2 style="margin:0 0 6px">Goals</h2><p class='muted' style='margin:0'>Shows the quarter&#x27;s goals and key results against what the data says.</p><p style='margin:8px 0 0'>4 goals, 5 key result(s) behind or off track</p></a><a class="panel" href="career.html" style="color:inherit;text-decoration:none"><h2 style="margin:0 0 6px">Career</h2><p class='muted' style='margin:0'>Reads public job boards and sorts new openings into apply, monitor or discard.</p><p style='margin:8px 0 0'>39 openings: 2 apply, 13 monitor, 24 discard</p></a><a class="panel" href="https://github.com/gcabralcavalcanti/anki-librarian-mcp" style="color:inherit;text-decoration:none"><h2 style="margin:0 0 6px">Librarian (flashcards)</h2><p class="muted" style="margin:0">Turns study material into Anki flashcards with the same safety rules.</p><p style='margin:8px 0 0'>Lives in its own repository, anki-librarian-mcp, with a step-by-step simulation.</p></a></div>
 <footer>Fictitious data, except the public job boards on the Career page. Generated by <code>python demo.py</code> in personal-ai-agents.</footer>
 </main></body></html>

diff --git a/personal_ai_agents/career/page.py b/personal_ai_agents/career/page.py
@@ -47,11 +47,13 @@ def page(store: dict, counts: dict, summary: dict, profile: dict, snapshot_date:
              f"<th>Company</th><th>Opening</th><th>Place</th><th>Why</th></tr>{trs}</table></div>")  # fmt: skip
     geo = profile["geography"]
     lead = (
-        f"New openings on public job boards (snapshot of {esc(snapshot_date)}), sorted for an example candidate: "
+        f"New openings on public job boards (snapshot of {esc(snapshot_date)}) plus four fictitious ones that state "
+        "their graduation dates (marked as such), sorted for an example candidate: "
         f"{esc(profile['candidate'])}; preferred city {esc(', '.join(geo['preferred']))}; also "
         f"{esc(', '.join(geo['acceptable']))}. Code discards senior and mid-level titles without calling the model; "
         "the model reads the rest and every answer is checked against the rules (an opening outside the geography "
-        "is never 'apply'). Running it again costs nothing: verdicts are stored by opening."
+        "is never 'apply'). Real titles rarely state graduation dates, so most of them land on 'monitor' until the "
+        "posting is read. Running it again costs nothing: verdicts are stored by opening."
     )
     return shell(
         "career",
@@ -59,5 +61,5 @@ def page(store: dict, counts: dict, summary: dict, profile: dict, snapshot_date:
         lead,
         f'<div class="grid g4">{tiles_html}</div><h2>Openings</h2>{table}{SCRIPT}',
         CSS,
-        data_note="Public job-board titles; example candidate profile.",
+        data_note="Public job-board titles plus four fictitious openings; example candidate profile.",
     )

diff --git a/personal_ai_agents/pages.py b/personal_ai_agents/pages.py
@@ -16,6 +16,7 @@ AGENTS = [
     ("career", "Career", "Reads public job boards and sorts new openings into apply, monitor or discard."),
 ]
 
+LIBRARIAN_URL = "https://github.com/gcabralcavalcanti/anki-librarian-mcp"
 CSS = (Path(__file__).with_name("pages.css")).read_text(encoding="utf-8")
 
 
@@ -40,6 +41,12 @@ def index(status: dict[str, str]) -> str:
         f"{esc(n)}</h2><p class='muted' style='margin:0'>{esc(d)}</p>"
         f"<p style='margin:8px 0 0'>{status.get(k, '')}</p></a>"
         for k, n, d in AGENTS
+    )
+    cards += (
+        f'<a class="panel" href="{LIBRARIAN_URL}" style="color:inherit;text-decoration:none">'
+        '<h2 style="margin:0 0 6px">Librarian (flashcards)</h2><p class="muted" style="margin:0">Turns study '
+        "material into Anki flashcards with the same safety rules.</p><p style='margin:8px 0 0'>Lives in its own "
+        "repository, anki-librarian-mcp, with a step-by-step simulation.</p></a>"
     )
     lead = (
         "Each agent here is a small, runnable version of one I use every day with my real data (Todoist, Anki, Loop "

diff --git a/demo.py b/demo.py
@@ -106,6 +106,8 @@ def goals(argv: list[str], verbose: bool) -> str:
 
 def career(argv: list[str], verbose: bool) -> str:
     snap = json.loads((DATA / "job_board_snapshot.json").read_text(encoding="utf-8"))
+    examples = json.loads((DATA / "example_openings.json").read_text(encoding="utf-8"))
+    snap["state"].update(examples["state"])
     profile = json.loads((DATA / "triage_profile.json").read_text(encoding="utf-8"))
     llm = LLM(mode="auto" if "--live" in argv else "demo", max_calls=25)
     store: dict = {}

diff --git a/README.md b/README.md
@@ -11,7 +11,7 @@ the safety rules that keep them from doing damage.
 | What happens | Where to see it |
 |---|---|
 | The calendar agent tries to change tasks before its plan was checked and is blocked; its first plan fails the checker and is sent back with the reasons; the second passes, and only then does the write go through | `python demo.py secretary` · [screenshot](docs/demo-secretary.png) |
-| 35 real openings from public job boards sorted for an example candidate: 16 settled by simple rules with no AI call, 19 read by Claude, for about US$ 0.003 | [`output/career.html`](output/career.html) · [`output/triage_report.md`](output/triage_report.md) |
+| 35 real openings from public job boards sorted for an example candidate: 16 settled by simple rules with no AI call, 19 read by Claude, for about US$ 0.003; four fictitious openings that state their graduation dates show all three outcomes (apply, monitor, discard) | [`output/career.html`](output/career.html) · [`output/triage_report.md`](output/triage_report.md) |
 | 11 of 12 test requests handled the way the career agent's rules say; the grader also rejects the two wrong answers planted to check it | [`output/evals/scoreboard.csv`](output/evals/scoreboard.csv) · [`output/evals/last-run.md`](output/evals/last-run.md) |
 | Goals scored from the data, next to how they feel: one goal feels like 4/10 and measures 8/10 | [`output/goals.html`](output/goals.html) |
 
@@ -59,7 +59,8 @@ Operations and troubleshooting: [`RUNBOOK.md`](RUNBOOK.md).
 - Calendar, habits and goals: **fictitious**, written for the demo ([`data/`](data/)). The habit export is
   generated in the same format the Loop Habits app writes.
 - Career: **real public job-board titles** from 19 Oct 2026
-  ([`data/job_board_snapshot.json`](data/job_board_snapshot.json)) and an example candidate profile.
+  ([`data/job_board_snapshot.json`](data/job_board_snapshot.json)), four fictitious openings marked as such
+  ([`data/example_openings.json`](data/example_openings.json)), and an example candidate profile.
 - Claude's answers for the demo are stored in [`data/recorded/`](data/recorded/) so every run can be replayed.
 - The private system this comes from (600+ commits) is not here. Some files are close copies, others simplified
   versions; each file says which.
